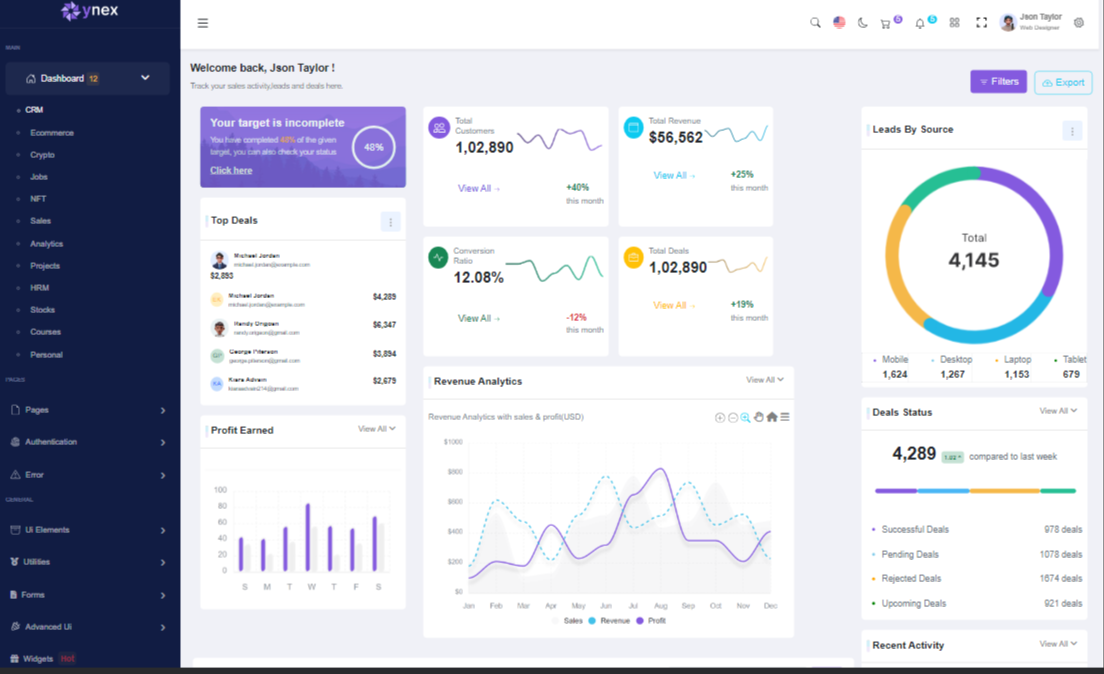
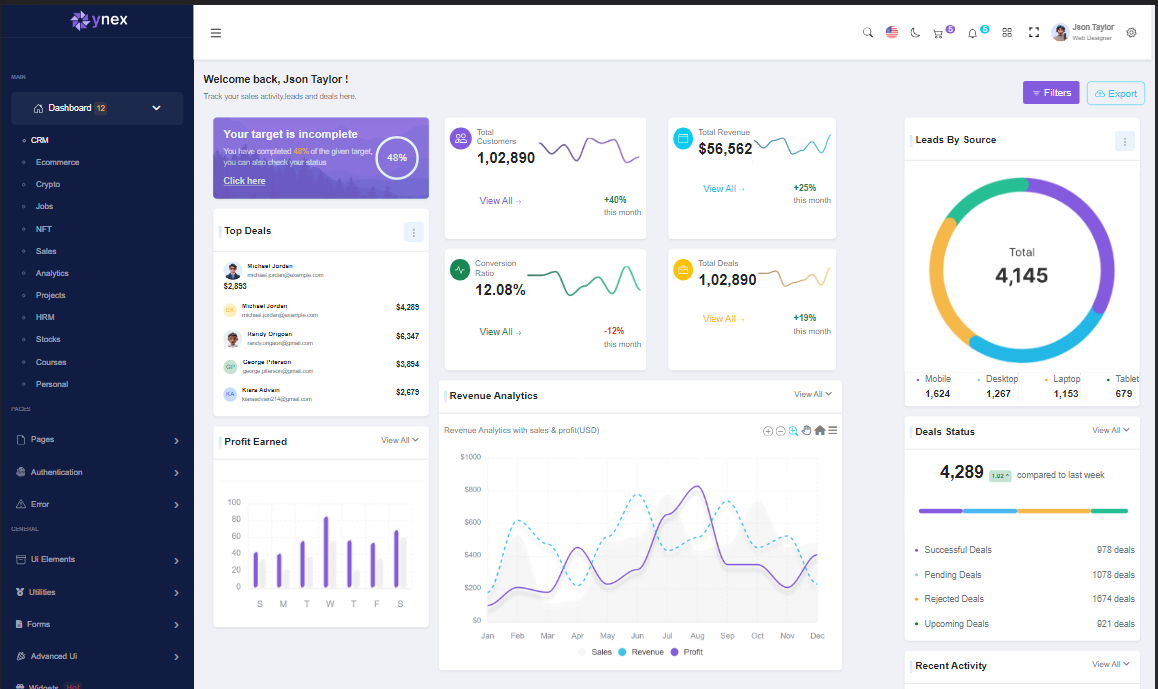
screenshot added

diff --git a/Task 2 - Bootstrap/Abrar_Task-2/index.html b/Task 2 - Bootstrap/Abrar_Task-2/index.html
@@ -598,8 +598,8 @@
           <div class="bottom-left-container col-12 row m-0 pe-4 ps-2">
             <div class="two-sided-partiton-container col-12 col-xl-9 m-0">  
               <div class="partition-container col-12 row m-0 p-0 mb-3">
-                <div class="part-1 me-1 col-12 col-xl-4">
-                  <div class="first-card col-12 mb-3">
+                <div class="part-1 me-1 col-12 col-xl-4 m-0">
+                  <div class="first-card col-12 mb-3 shadow-sm">
                     <div
                       class="partition-1 d-flex flex-row justify-content-between pt-3 pb-3 pe-3 ps-3 align-items-center"
                     >
@@ -624,7 +624,7 @@
                     </div>
                   </div>
                   <div
-                    class="second-card col-12 bg-white shadow-md pt-2 pb-1 mb-3"
+                    class="second-card col-12 bg-white  pt-2 pb-1 mb-3 shadow-sm"
                   >
                     <div
                       class="top-deals-container d-flex flex-row justify-content-between align-items-center pe-2 ps-2 pt-1 pb-1 mb-3"
@@ -763,7 +763,7 @@
                       <h6 class="rupee-head fw-semibold">$2,679</h6>
                     </div>
                   </div>
-                  <div class="third-card col-12 bg-white mb-3">
+                  <div class="third-card col-12 bg-white mb-3 shadow-sm">
                     <div
                       class="top-deals-container d-flex flex-row justify-content-between align-items-center pe-2 ps-2 mb-3"
                     >
@@ -790,10 +790,10 @@
                     </div>
                   </div>
                 </div>
-                <div class="partition-2 col-12 col-xl-7">
-                  <div class="first-one row m-0 p-0 ms-md-4 ms-lg-0">
+                <div class="partition-2 col-12 col-xl-7 m-0 p-0">
+                  <div class="first-one row m-0 p-0 ms-md-4 ms-lg-0 d-flex justify-content-around">
                     <div
-                      class="graph-card-1 col-12 col-md-6 m-0 ms-lg-0 bg-white pb-3 pt-3 ps-2 pe-2 mb-3"
+                      class="graph-card-1 col-12 col-md-6 m-0 me-lg-0 bg-white pb-3 pt-3 ps-2 pe-2 mb-3 shadow-sm"
                     >
                       <div class="customers-container d-flex flex-column mb-3">
                         <div class="d-flex">
@@ -870,7 +870,7 @@
                       </div>
                     </div>
                     <div
-                    class="graph-card-1 col-12 col-md-5 m-0 ms-md-3 bg-white pb-3 pt-3 ps-2 pe-2 mb-3"
+                    class="graph-card-2 col-12 col-md-5 m-0 ms-md-3 ms-lg-3 bg-white pb-3 pt-3 ps-2 pe-2 mb-3 shadow-sm"
                   >
                     <div class="customers-container d-flex flex-column mb-3">
                       <div class="d-flex">
@@ -948,9 +948,9 @@
                     </div>
                   </div>
                   </div>
-                  <div class="second-one row m-0 p-0 ms-md-4 ms-lg-0">
+                  <div class="second-one row m-0 p-0 ms-md-4 ms-lg-0 d-flex justify-content-around">
                     <div
-                    class="graph-card-1 col-12 col-md-6 m-0 bg-white pb-3 pt-3 ps-2 pe-2 mb-3"
+                    class="graph-card-1 col-12 col-md-6 m-0 bg-white pb-3 pt-3 ps-2 pe-2 mb-3 shadow-sm"
                   >
                     <div class="customers-container d-flex flex-column mb-3">
                       <div class="d-flex">
@@ -1029,7 +1029,7 @@
                     </div>
                   </div>
                     <div
-                      class="graph-card-1 col-12 col-md-5 m-0 ms-lg-3 ms-md-3 bg-white pb-3 pt-3 ps-2 pe-2 mb-3"
+                      class="graph-card-2 col-12 col-md-5 m-0 ms-lg-3 ms-md-3 bg-white pb-3 pt-3 ps-2 pe-2 mb-3 shadow-sm"
                     >
                       <div class="customers-container d-flex flex-column mb-3">
                         <div class="d-flex">
@@ -1106,7 +1106,7 @@
                       </div>
                     </div>
                   </div>
-                  <div class="revenue-analysis-container bg-white col-12">
+                  <div class="revenue-analysis-container bg-white col-12 shadow-sm">
                     <div
                       class="top-deals-container d-flex flex-row justify-content-between align-items-center pe-2 ps-2 mb-3"
                     >
@@ -1197,7 +1197,7 @@
                   </div>
                 </div>
               </div>
-              <div class="col-12 bg-white rounded main-table-container">
+              <div class="col-12 bg-white rounded main-table-container shadow-sm">
                 <div
                   class="top-deals-container d-flex flex-row justify-content-between align-items-center pe-2 ps-2 mb-3"
                 >
@@ -1402,7 +1402,7 @@
               </div>
             </div>
             <div class="right-side-partition col-12 col-xl-3 m-0 p-0">
-              <div class="right-container-1 bg-white pb-2 pt-2 mb-3">
+              <div class="right-container-1 bg-white pb-2 pt-2 mb-3 shadow-sm">
                 <div
                   class="top-deals-container d-flex flex-row justify-content-between align-items-center pe-2 ps-2 pt-1 pb-1 mb-3"
                 >
@@ -1466,7 +1466,7 @@
                   </li>
                 </ul>
               </div>
-              <div class="right-container-2 bg-white rounded">
+              <div class="right-container-2 bg-white rounded shadow-sm">
                 <div
                   class="top-deals-container d-flex flex-row justify-content-between align-items-center pe-2 ps-2 mb-3"
                 >
@@ -1535,7 +1535,7 @@
                   </li>
                 </ul>
               </div>
-              <div class="right-container-3 bg-white rounded">
+              <div class="right-container-3 bg-white rounded shadow-sm">
                 <div
                   class="top-deals-container d-flex flex-row justify-content-between align-items-center pe-2 ps-2 mb-3"
                 >

diff --git a/Task 2 - Bootstrap/Abrar_Task-2/index.css b/Task 2 - Bootstrap/Abrar_Task-2/index.css
@@ -460,6 +460,9 @@ body::-webkit-scrollbar {
 .table-container::-webkit-scrollbar {
   display: none;
 }
+.graph-card-2 {
+  border-radius: 6px;
+}
 
 @media screen and (max-width: 576px) {
   .right-side-container {
